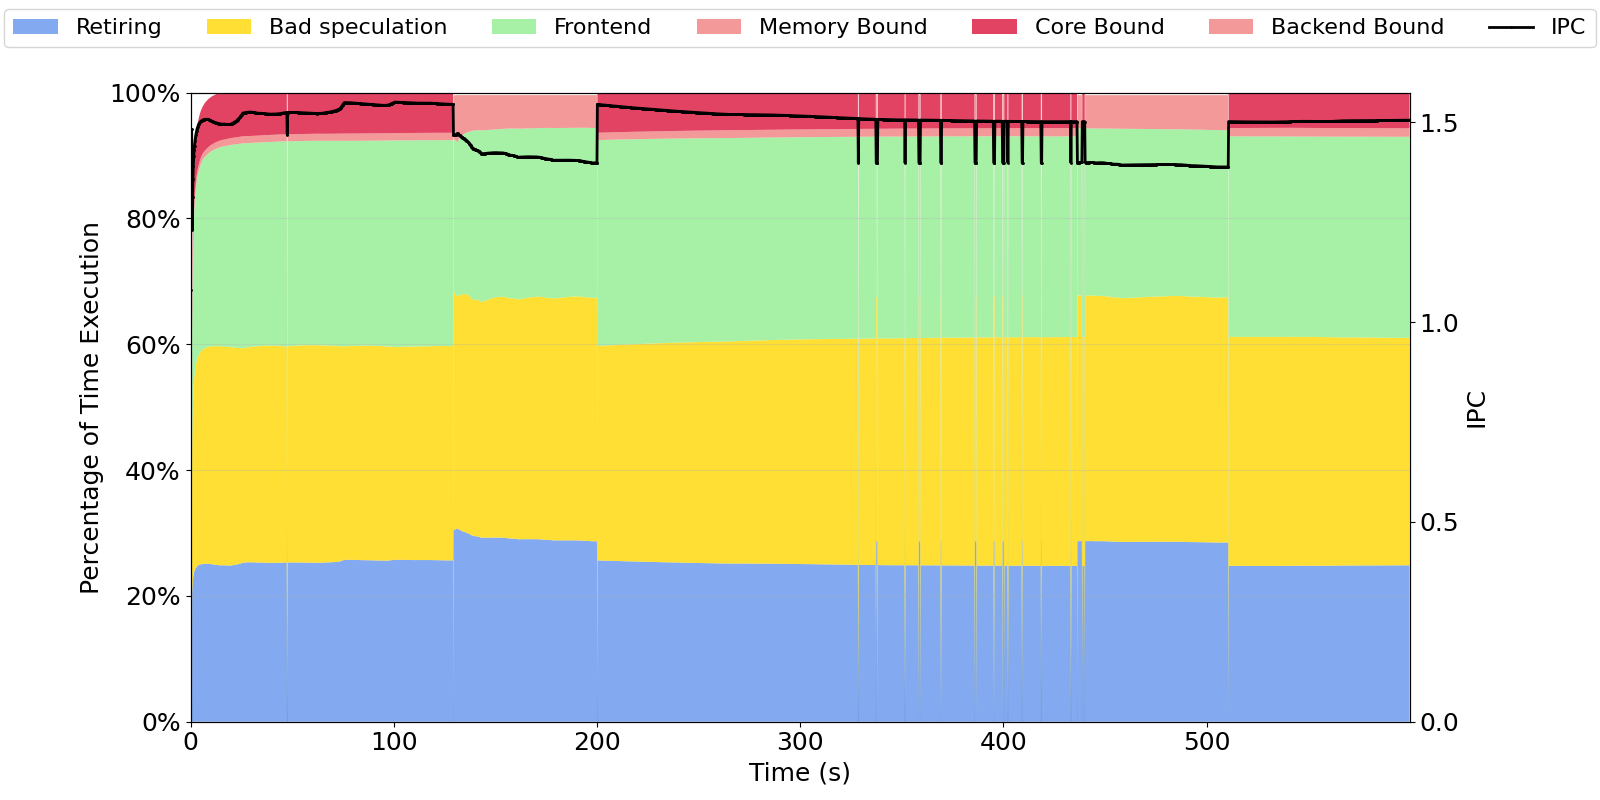
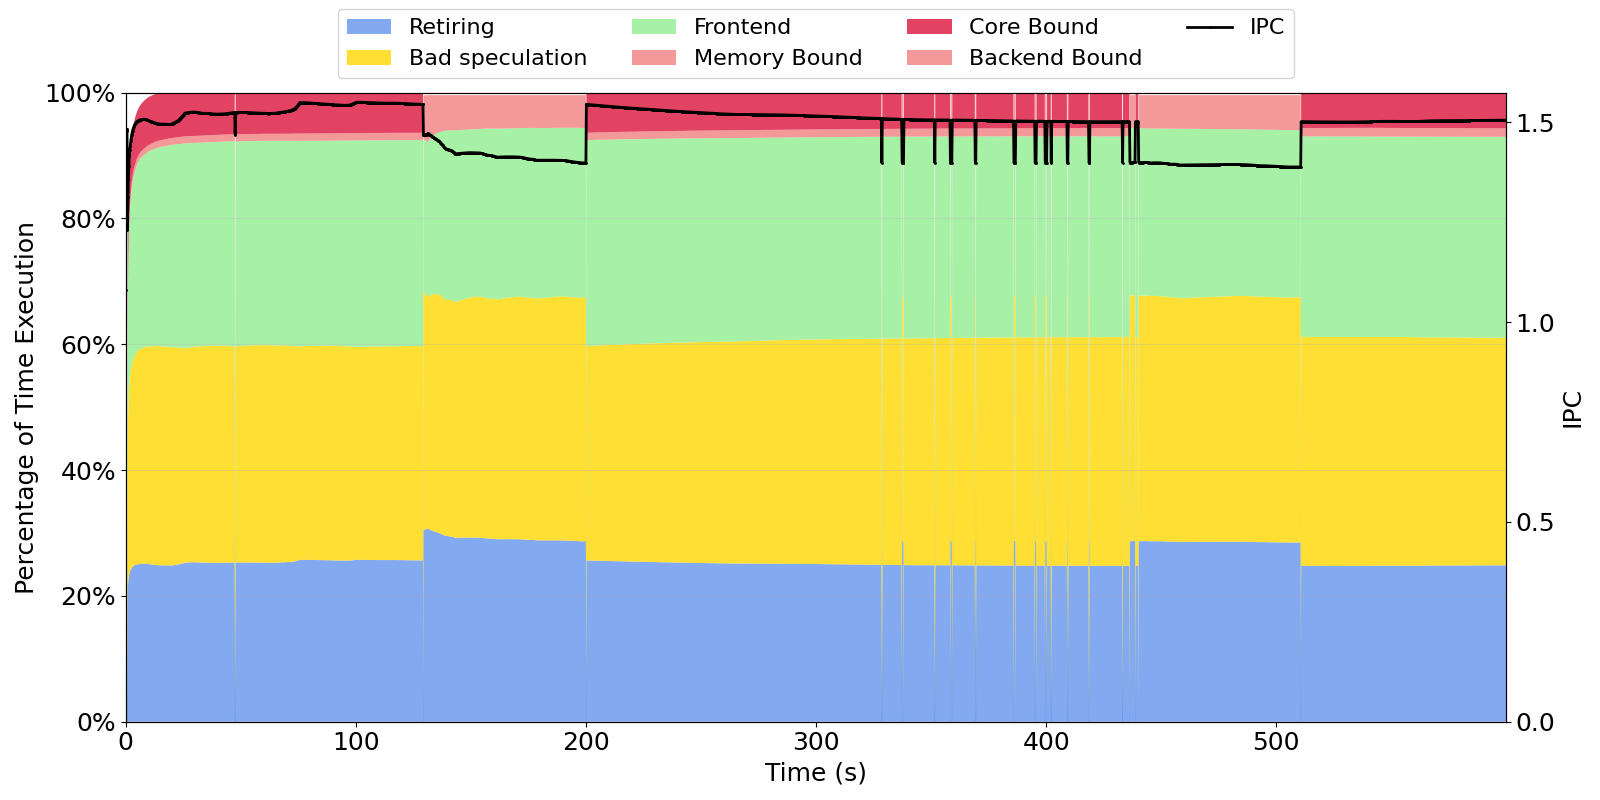
Godw

diff --git a/topdown_juntas.py b/topdown_juntas.py
@@ -76,7 +76,7 @@ def main():
             plt.subplots_adjust(top=0.85)
             plt.legend(lines + lines2, labels + labels2, 
                         loc='upper center', bbox_to_anchor=(0.5, 1.15), 
-                        fontsize=16, ncol=7)
+                        fontsize=16, ncol=4)
             
             plt.tight_layout()
 
